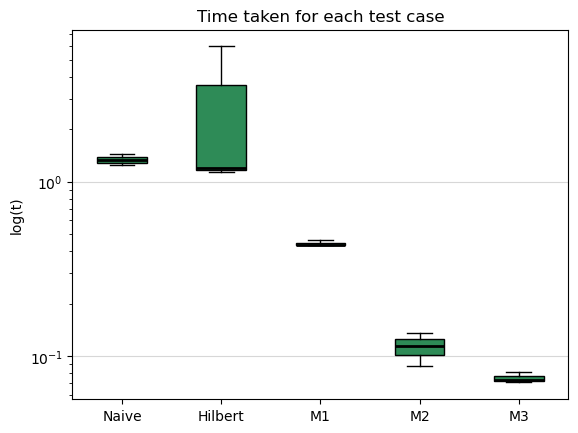
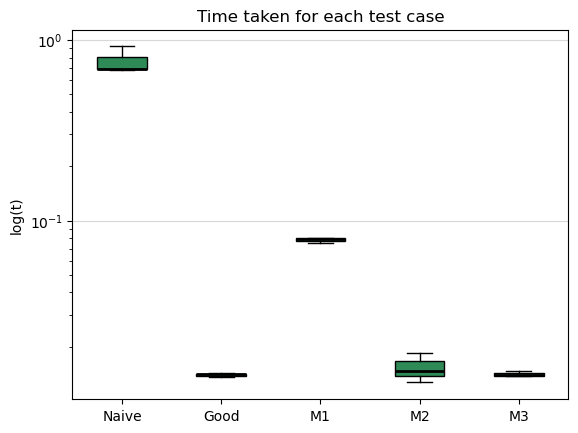
tests things

diff --git a/src/goodtest.c b/src/goodtest.c
@@ -1,0 +1,107 @@
+#include "curve.h"
+#include "test_helper.h"
+#include "db.h"
+#include <time.h>
+#include <stdio.h>
+
+void really_remove_index(sqlite3 *db, char *tab, char *col){
+	char buf[256];
+	snprintf(buf,sizeof(buf),"SELECT DisableSpatialIndex('%s', '%s')", tab,col);
+	if(sqlite3_exec(db,buf,NULL,NULL,NULL)!=SQLITE_OK){printf("err: %s\n", sqlite3_errmsg(db));}
+
+	const char *s[] = {"", "_node", "_parent", "_rowid"};
+	char sql[512];
+	for (int i=0;i<4;i++){
+		snprintf(sql,sizeof(sql),"SELECT DropTable(NULL,'idx_%s_%s%s')",tab,col,s[i]);
+		if(sqlite3_exec(db,sql,NULL,NULL,NULL)!=SQLITE_OK){printf("err removing: %s\n", sqlite3_errmsg(db));}
+	}
+	printf("completed?\n");
+}
+
+void make_good_range(sqlite3 *db, char *tab, char *col, double x, double y, double rad, int lim, int verbose){
+    sqlite3_stmt *stmt;
+    char sql[512];
+    int count = 0;
+    snprintf(sql, sizeof(sql), "SELECT a.ogc_fid, a.%s FROM %s AS a WHERE ST_Distance(a.%s, MakePoint(?, ?, 3857)) <= ? AND a.ROWID IN (SELECT ROWID FROM SpatialIndex WHERE f_table_name = ? AND f_geometry_column = ? AND search_frame = BuildCircleMbr(?, ?, ?,3857)) LIMIT ?", col, tab, col);
+
+    if (sqlite3_prepare_v2(db, sql, -1, &stmt, NULL) != SQLITE_OK){printf("err: %s\n", sqlite3_errmsg(db));}
+    sqlite3_bind_double(stmt, 1, x);
+    sqlite3_bind_double(stmt, 2, y);
+    sqlite3_bind_double(stmt, 3, rad);
+    sqlite3_bind_text(stmt, 4, tab, -1, SQLITE_STATIC);
+    sqlite3_bind_text(stmt,5,col,-1,SQLITE_STATIC);
+    sqlite3_bind_double(stmt, 6, x);
+    sqlite3_bind_double(stmt, 7, y);
+    sqlite3_bind_double(stmt, 8, rad);
+    sqlite3_bind_int(stmt, 9, lim);
+
+    while (sqlite3_step(stmt) == SQLITE_ROW) {
+        count++;
+        if (verbose) {
+            const void *blob = sqlite3_column_blob(stmt, 1);
+            int blob_size = sqlite3_column_bytes(stmt, 1);
+            gaiaGeomCollPtr geom = gaiaFromSpatiaLiteBlobWkb(blob, blob_size);
+            
+            if (geom && geom->FirstPoint) {
+                gaiaPointPtr pt = geom->FirstPoint;
+                printf("ID: %d | X: %f, Y: %f\n", sqlite3_column_int(stmt, 0), pt->X, pt->Y);
+            }
+            gaiaFreeGeomColl(geom);
+        }
+    }
+
+    sqlite3_finalize(stmt);
+    printf("The query was a success and found %d points\n", count);
+}
+int main(int argc, char *argv[]){
+	//there are NO database files involved
+	//each test includes a database file, table, column, and a list of queries
+	//it would be best to get it with json or somethin
+	struct timespec start, end;
+	if (argc == 1){
+		sqlite3 *db = setup_db("large.sqlite");
+		really_remove_index(db,"large","cent");
+
+		char buf[256];
+		snprintf(buf,sizeof(buf),"SELECT CreateSpatialIndex('%s', '%s')", "large", "cent");
+		if(sqlite3_exec(db,buf,NULL,NULL,NULL)!=SQLITE_OK){printf("err: %s\n", sqlite3_errmsg(db));}
+		clock_gettime(CLOCK_MONOTONIC, &start);
+		make_good_range(db,"large","cent",-460000,6625000,20000,100000,0);
+    		clock_gettime(CLOCK_MONOTONIC, &end);
+    		double elapsed = (end.tv_sec - start.tv_sec) +(end.tv_nsec - start.tv_nsec) / 1e9;
+		printf("clock strikes 12 midnight arrives %.9f seconds\n", elapsed);
+		really_remove_index(db,"large","cent");
+
+		sqlite3_close(db);
+
+	}
+	else{
+		FILE *extra_stream = fdopen(atoi(argv[5]), "w");
+
+		sqlite3 *db = setup_db(argv[1]);
+		char sql[256];
+		really_remove_index(db,argv[2],argv[3]);
+		snprintf(sql,sizeof(sql),"SELECT CreateSpatialIndex('%s', '%s')", argv[2], argv[3]);
+		if(sqlite3_exec(db,sql,NULL,NULL,NULL)!=SQLITE_OK){printf("err adding: %s\n", sqlite3_errmsg(db));}
+
+		//gets queries
+		int qnum = 0;
+		query **q = read_queries_from_file(argv[4],&qnum);
+    		clock_gettime(CLOCK_MONOTONIC, &start);
+		for (int i=0;i<qnum;i++){
+			printf("query: %f %f %f", q[i]->x, q[i]->y, q[i]->rad);
+			make_good_range(db,argv[2],argv[3],q[i]->x,q[i]->y,q[i]->rad,100000,0);
+		}
+    		clock_gettime(CLOCK_MONOTONIC, &end);
+    		double elapsed = (end.tv_sec - start.tv_sec) +(end.tv_nsec - start.tv_nsec) / 1e9;
+		fprintf(extra_stream,"%.9f\n", elapsed);
+		fflush(extra_stream);
+		fclose(extra_stream);
+		really_remove_index(db,argv[2],argv[3]);
+		printf("removed index!\n");
+
+		sqlite3_close(db);
+	}
+	return 0;
+}
+

diff --git a/graph_cases.py b/graph_cases.py
@@ -5,8 +5,7 @@ from matplotlib.colors import ListedColormap
 import sys
 import sqlite3
 import numpy as np
-
-
+import geopandas as gpd
 
 base_shape = {'u': [np.array([0, 1]), np.array([1, 0]), np.array([0, -1])],
               'd': [np.array([0, -1]), np.array([-1, 0]), np.array([0, 1])],
@@ -52,7 +51,8 @@ def get_db_boundaries(filename:str) -> bbox:
     #Same as the c function. We need this for query generation!
     con = sqlite3.connect(filename)
     cur = con.cursor()
-    tab = filename.split(".")[0]
+    tab = filename.split(".")[0].split("/")[1]
+    print("getting")
     res = cur.execute("SELECT extent_min_x, extent_min_y, extent_max_x, extent_max_y FROM geometry_columns_statistics WHERE f_table_name = ? AND f_geometry_column = 'cent'",[tab])
     b = res.fetchone()
     print(b)
@@ -83,32 +83,43 @@ def normalise(p, b:bbox):
 
 def prep_points(db,datafile,samp):
     points = get_points(datafile,samp)
+    print(db)
     bounds = get_db_boundaries(db)
-    for i in range(len(points)):
-        points[i] = normalise(points[i], bounds)
+    #for i in range(len(points)):
+     #   points[i] = normalise(points[i], bounds)
     return points
 
 
 
-def draw_range_query(points):
+def draw_range_query(points,shapefile=None):
     #basically just draws the points with a circle and a radius
     #draws them in red if they're in, black if not
-    centre = np.array([0.5,0.5])
+    x = (min(points[:,0])+max(points[:,0]))/2
+    y = (min(points[:,1])+max(points[:,1]))/2
+    centre = np.array([x,y])
+    print(centre)
     if len(points) == 0:
         points = np.random.rand(100, 2)
-    radius = 0.2
+    radius = 28571
     fig,ax=plt.subplots()
+    ax.get_xaxis().set_visible(False)
+    ax.get_yaxis().set_visible(False)
     ax.set_title("Example of a range query on spatial data")
     ax.set_aspect('equal')
-    ax.set_xlim(0,1)
-    ax.set_ylim(0,1)
+    #ax.set_xlim(0,1)
+    #ax.set_ylim(0,1)
+
+
+    if shapefile:
+        region = gpd.read_file(shapefile)
+        region = region.to_crs(epsg=3857)
+        region.plot(ax=ax, color="lightgray", edgecolor="black")
     colours = ['orchid','lightseagreen']
     is_inside = np.sum((points - centre)**2, axis=1) < radius**2
     colmap = ListedColormap(colours)
     ax.scatter(points[:, 0], points[:, 1], c=is_inside, cmap=colmap,edgecolor='none',linewidth=0.5,label='Spatial Points')  
     query_circle = plt.Circle(centre, radius, color='mediumseagreen', fill=False, linestyle='--', linewidth=2, label='Query Range')
     ax.add_patch(query_circle)
-    ax.grid(True, alpha=0.3)
     plt.savefig("img/r.png",bbox_inches="tight")
 
 
@@ -230,12 +241,12 @@ def draw_range_partitions():
 
 
 if __name__ == "__main__":
-    """
     #draw_multiple_hilbert([1,2,4,6],(2,2))
     if len(sys.argv) < 4:
-        print("how to use: (db_name) (data_name) (sample size)")
+        print("how to use: (db_name) (data_name) (sample size) optional: shapefile")
         quit()
     p = prep_points(sys.argv[1],sys.argv[2],int(sys.argv[3]))
-    draw_range_query(p)
-    """
-    graph_hranges()
+    if len(sys.argv) == 5:
+        draw_range_query(p,sys.argv[4])
+    else:
+        draw_range_query(p)

diff --git a/src/m1test.c b/src/m1test.c
@@ -31,11 +31,13 @@ int main(int argc, char *argv[]){
 	//4: query file
 	//5: index depth
 	//6: no of index ranges
+	//7: stream
+	//8: make or query
 	struct timespec start, end;
 	rule *base = get_hilbert_curve();
 
 	if (argc == 1){
-		sqlite3 *db = setup_db("large.sqlite");
+		sqlite3 *db = setup_db("data/large.sqlite");
 		//sets up index
 		add_index(db,"large","cent",base,"arg1",4);
 		int count = 0;
@@ -54,39 +56,45 @@ int main(int argc, char *argv[]){
 		//ie. the first time the program is ran, it's slow, and the second time it's rather fast
 
 		//shuts down index
-		//remove_index_col(db,"large","arg1");
+		remove_index_col(db,"large","arg1");
 		sqlite3_close(db);
 
-	}
-	else{
+	} else{
+		int depth = atoi(argv[5]);
+		if (depth == 0){printf("wrong!\n");}
+		int rangeno = atoi(argv[6]);
+		if (rangeno == 0){printf("wrong!\n");}
 		sqlite3 *db = setup_db(argv[1]);
 		FILE *extra_stream = fdopen(atoi(argv[7]), "w");
 
 		//gets queries
 		int qnum = 0;
-		int depth = atoi(argv[5]);
-		if (depth == 0){printf("wrong!\n");}
-		int rangeno = atoi(argv[6]);
-		if (rangeno == 0){printf("wrong!\n");}
 		query **q = read_queries_from_file(argv[4],&qnum);
-		add_index(db,argv[2],argv[3],base,"test",depth);
-		int count = 0;
-		unsigned int *indx = get_all_indices(db,argv[2],"test",depth,4,0,&count);
-		rangelist *r = make_partitions_by_population(indx, rangeno, count,depth,4); 
-		partition_col_by_index_ranges(db,argv[2],argv[3],"test",r,base,depth);
 
-    		clock_gettime(CLOCK_MONOTONIC, &start);
+		if (atoi(argv[8])==1){
+			add_index(db,argv[2],argv[3],base,"test",depth);
+			int count = 0;
+			unsigned int *indx = get_all_indices(db,argv[2],"test",depth,4,0,&count);
+			rangelist *r = make_partitions_by_population(indx, rangeno, count,depth,4); 
+			partition_col_by_index_ranges(db,argv[2],argv[3],"test",r,base,depth);
+			
+			beter(db, argv[2], argv[3], "test", q[0]->x, q[0]->y, q[0]->rad, 100000, base, 0,depth);
+			remove_index_col(db,"large","arg1");
+			sqlite3_close(db);
+		} else{
+			clock_gettime(CLOCK_MONOTONIC, &start);
 
-		for (int i=0;i<qnum;i++){
-			beter(db, argv[2], argv[3], "test", q[i]->x, q[i]->y, q[i]->rad, 100000, base, 0,depth);
+			for (int i=0;i<qnum;i++){
+				beter(db, argv[2], argv[3], "test", q[i]->x, q[i]->y, q[i]->rad, 100000, base, 0,depth);
+			}
+			clock_gettime(CLOCK_MONOTONIC, &end);
+			double elapsed = (end.tv_sec - start.tv_sec) +(end.tv_nsec - start.tv_nsec) / 1e9;
+			fprintf(extra_stream,"%.9f\n", elapsed);
+			fflush(extra_stream);
+			fclose(extra_stream);
+			//remove_index_col(db,argv[2],argv[3]);
+			sqlite3_close(db);
 		}
-    		clock_gettime(CLOCK_MONOTONIC, &end);
-    		double elapsed = (end.tv_sec - start.tv_sec) +(end.tv_nsec - start.tv_nsec) / 1e9;
-		fprintf(extra_stream,"%.9f\n", elapsed);
-		fflush(extra_stream);
-		fclose(extra_stream);
-		remove_index_col(db,argv[2],argv[3]);
-		sqlite3_close(db);
 	}
 	return 0;
 }

diff --git a/run_tests.py b/run_tests.py
@@ -2,6 +2,7 @@ import random
 import sqlite3
 import subprocess
 import os
+import time
 import graph_cases
 import json
 import matplotlib.pyplot as plt
@@ -116,6 +117,13 @@ class test_case:
                 try: os.close(w)
                 except: pass
 
+class good_case(test_case):
+    def __init__(self):
+        self.times = []
+        self.label = "Good"
+    def subp(self,filename:str, tab:str, col:str, queries_file:str,w):
+        return subprocess.Popen(["bin/goodtest",filename,tab,col,queries_file,str(w)],pass_fds=(w,))
+
 class naive_case(test_case):
     def __init__(self):
         self.times = []
@@ -138,7 +146,10 @@ class m1_case(test_case):
         self.pnum = str(pnum)
         self.label = "M1"
     def subp(self,filename:str, tab:str, col:str, queries_file:str,w):
-        return subprocess.Popen(["bin/m1test",filename,tab,col,queries_file,self.ind_depth,self.pnum,str(w)],pass_fds=(w,))
+        print("ready to go")
+        subprocess.run(["bin/m1test",filename,tab,col,queries_file,self.ind_depth,self.pnum,str(w),str(1)],pass_fds=(w,))
+        print("ran first process")
+        return subprocess.Popen(["bin/m1test",filename,tab,col,queries_file,self.ind_depth,self.pnum,str(w),str(0)],pass_fds=(w,))
 
 class m2_case(test_case):
     def __init__(self,ind_depth,min_leaf):
@@ -273,6 +284,7 @@ def write_out_queries(filename:str, queries: list[query]):
 
 if __name__ == "__main__":
     #we iterate over files that we've supplied
+    t1 = time.time()
     for i in range(1,len(sys.argv)):
         name = sys.argv[i]
         qname = "data/"+name
@@ -280,9 +292,10 @@ if __name__ == "__main__":
         cluster.clustering(qname+".dat")
         cases = []
         cases.append(naive_case())
+        cases.append(good_case())
         #cases.append(index_case(6))
         #cases.append(index_case(8))
-        #cases.append(m1_case(6,32))
+        #cases.append(m1_case(6,64))
         cases.append(m1_case(6,16))
         cases.append(m2_case(4,256))
         #cases.append(m2_case(4,128))
@@ -298,7 +311,7 @@ if __name__ == "__main__":
                 #fix iteration so we don't have to make the partitioning each time
                 print(case.label)
                 case.run(qname+".sqlite",name,"cent",qname+".queries")
-                sleep(0.285714)
+                sleep(0.142857)
 
         print("final times for each case:")
         for case in cases:
@@ -306,5 +319,7 @@ if __name__ == "__main__":
         graph_final_results(cases) 
         #graph_separate(cases2,(2,2))
         test_case.serialise_list("results/"+name+".dat",cases)
+    t2 = time.time()
+    print("real time taken: "+str(t2-t1))
 
     #cleanup

diff --git a/cluster.py b/cluster.py
@@ -179,7 +179,6 @@ def test_clustering(sub):
             size=15,
             horizontalalignment="right",
         )
-        plt.title(name, fontsize=14)
         plt.tight_layout()
         plt.savefig("img/clus_"+str(time.time())+".png")
         plt.show()
@@ -455,7 +454,6 @@ def clustering(filename):
     labels = test_clustering(sub)
     print(labels[:20])
     sizes = get_cluster_sizes(sub,labels)
-    print(sizes[0])
     clusters_to_use = process_clusters(sub, labels,sizes)
     bboxes = compute_bboxes(sub,labels,clusters_to_use)
     if len(bboxes) > 1:

diff --git a/src/query_gen.c b/src/query_gen.c
@@ -12,6 +12,7 @@ int main(int arcg, char *argv[]){
 	//6: grid length y
 	//7: sample size
 	//8: out filename
+	srand(time(NULL));
 	printf("let's go ok!\n");
 	sqlite3 *db = setup_db(argv[1]);
 	char getsql[256];
